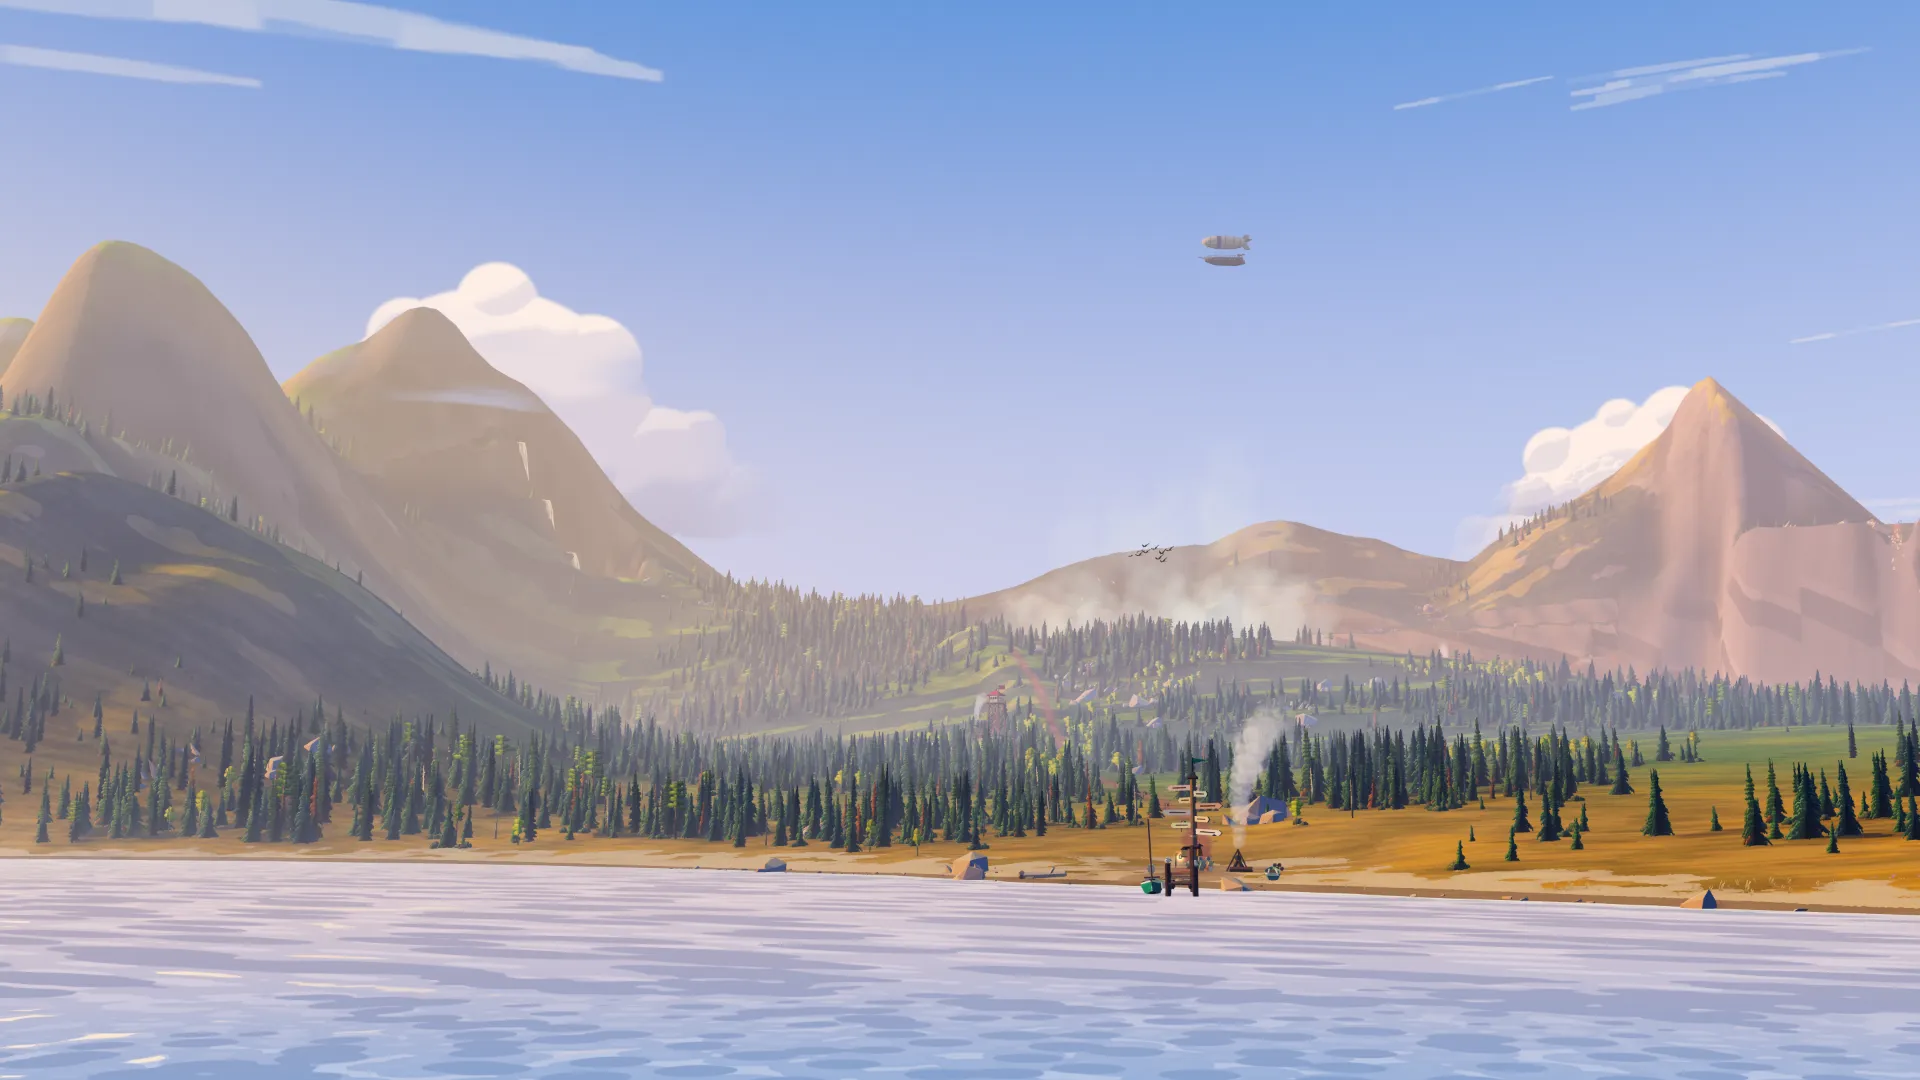
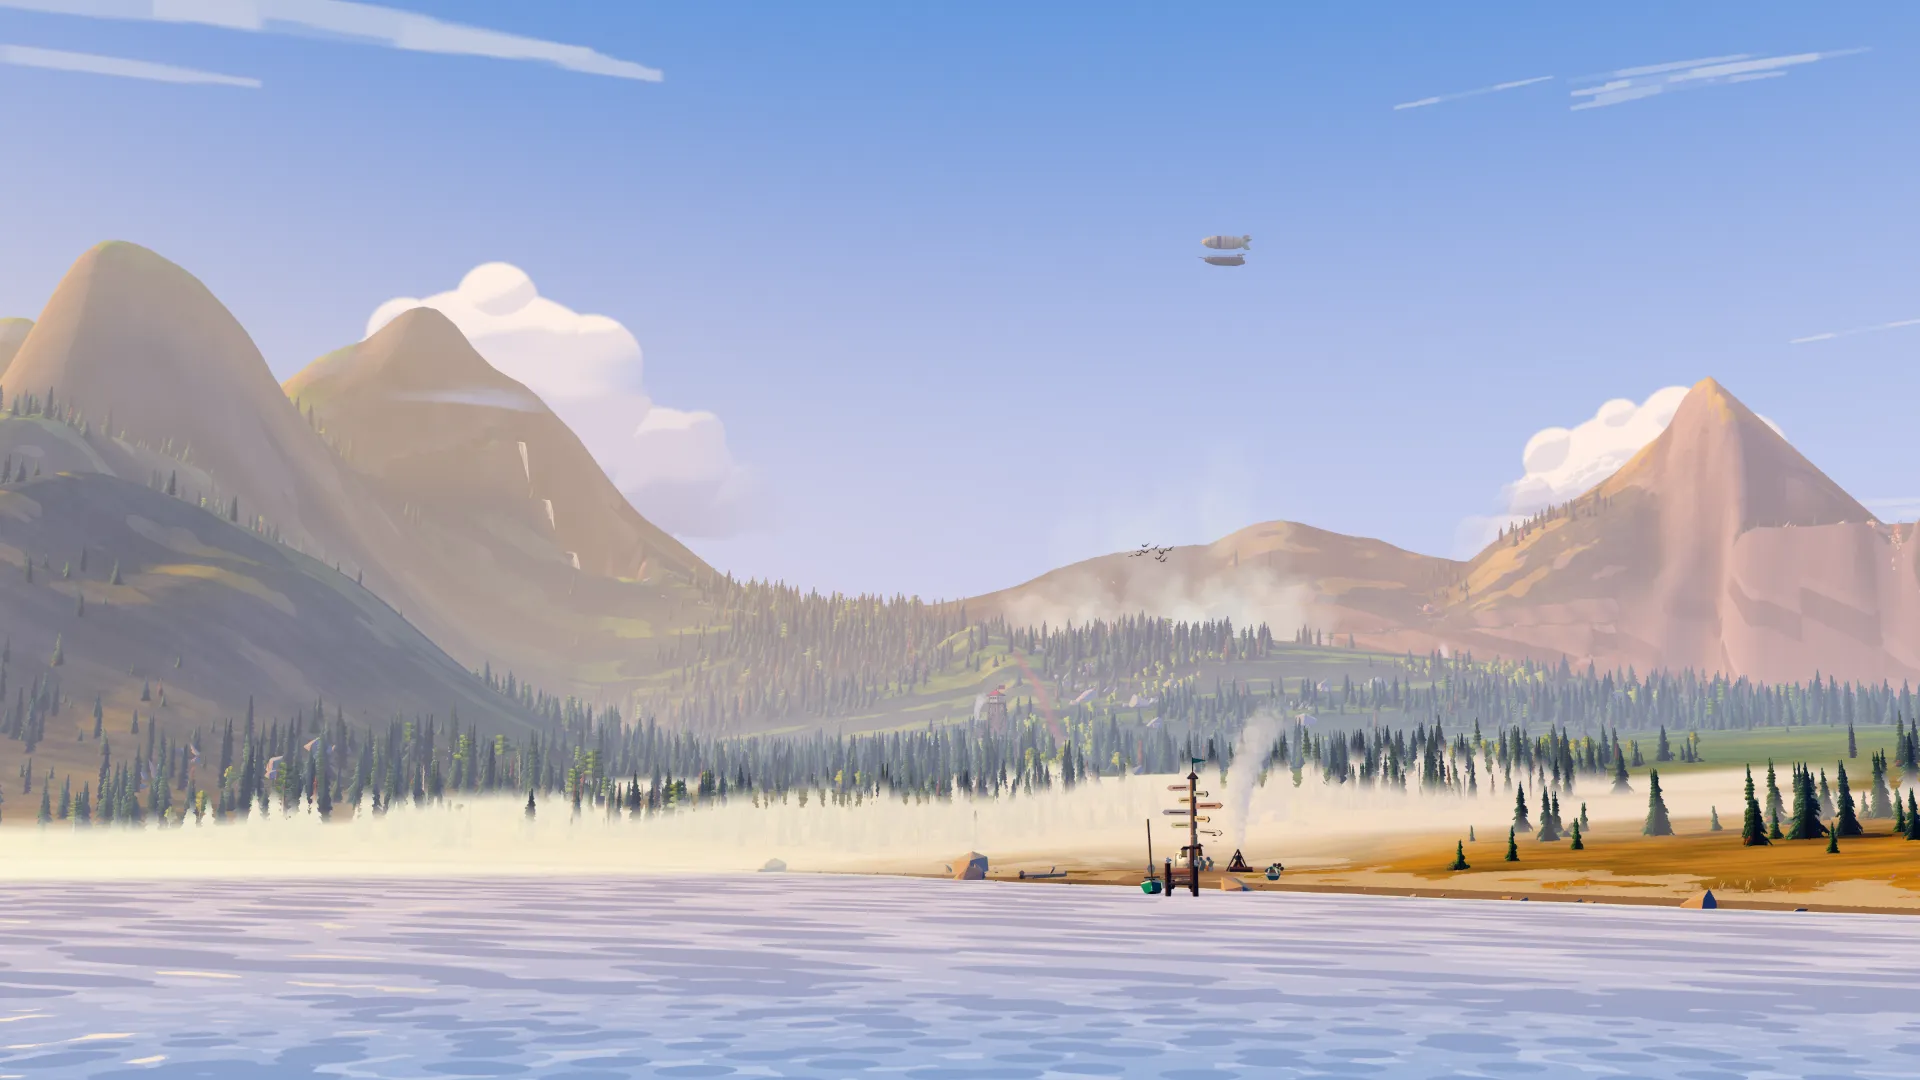
The morning posters are rendered again with the haze. The 7 morning twins are drawn at 07:30 by the poster script (v6-posters.mjs --tod=morning, as at 196b610): 718 KB for the 7 where they were 845 KB, since the mist's smooth banks pack smaller. The Mirror Lake's file is at webp quality 0.74, which 
The morning's poster line is measured again on the opening (the live 3D at 1280 x 720 on the real GPU, each frame's mean distance to the day's frame and the morning's): 0.54 at steps of 0.02 twice and of 0.01, where it was 0.47, because the hazy morning lies further from the day (the opening 28.6 levels from it; the Landing 29.6 where it was 14.9). POSTER_FROM.morning is now 0.54, so the day posters take over at 09:28:24 where they did at 09:31:13. The dawn's line reads 0.36 again and stays, and the dusk's reads 0.34 as before. clock.ts's note gives each place's reading. night-posters.test.mjs takes the new minute (the morning posters to 09:28) and checks second by second round it from 09:27.

In light.ts each morning row's comment now ends with its measurements as the page shows them, with the bottom shade at half in the morning (the third round's numbers were read at the full shade), and how far the view sits from its day at 420 px wide against the tuned morning before the haze: the opening 14.7 dE where it was 10.0, the Landing 17.4 where it was 10.0, Base Camp 15.6 where it was 8.6, the Falls 14.7 where it was 9.7, the Gorge 21.4 where it was 20.8, the Mirror Lake 26.1 where it was 22.9, the forest 17.1 where it was 13.6. The 7 views at 07:30 and 15:00 drawn on the real GPU are pixel for pixel the haze's third round (one pixel one level off at the Gorge), so the live map is as it was.
[…]

Changed region(s): [[0.0, 0.6417, 1.0, 0.825]]

diff --git a/src/lib/world-v6/light.ts b/src/lib/world-v6/light.ts
@@ -1021,6 +1021,16 @@ export const MORNING_BASE = {
  * top that rises and falls; a rose lilac haze at Base Camp for first light
  * on the peaks; the lake's band thinning and thickening along the water; the
  * Glowing Forest's first mist, at the far trunks' feet.
+ *
+ * The third round's numbers in the rows were read at the page's full bottom
+ * shade. Since the same day the morning halves it (WorldV6.tsx
+ * MORNING_SHADE), so a bank low in the frame keeps more of its light; each
+ * row's last lines give it as the page shows it (renders of the page with its
+ * interface, 1691 x 1278, 07:30 against 15:00, the real GPU, on the code the
+ * morning posters were rendered from), with how far the view sits from its
+ * day at the size the owner saw the sheet on a phone (mean CIELAB dE76 at 420
+ * px wide, the top bar and the dock left out), against the tuned morning
+ * before the haze, which he found too close to the day.
  */
 export const MORNING_LOOK = {
   // Haze pass: the lobe 0.3 -> 0.6, the haze and the mist warmer toward the sun.
@@ -1056,6 +1066,10 @@ export const MORNING_ROWS: Partial<Record<LightWaypointKey, MorningRow>> = {
   // reaches 100 over the water), so the bank lies in drifts along the shore;
   // the side turned from the sun cools only 0.15 of the way to the haze, so
   // the whole bank reads as lit cream.
+  // At the half shade: the bank on the shore 184 luma (sat 0.12; 64 by day),
+  // its brightest fifth 203, its top a 66 to 101 luma step inside 40 px; the
+  // tree tops above it 129 and the forest band 144 at sat 0.03 (95 and 120 by
+  // day). From the day dE 14.7 (10.0 before the haze).
   "opening-gold": {
     dial: 1,
     look: {
@@ -1081,6 +1095,10 @@ export const MORNING_ROWS: Partial<Record<LightWaypointKey, MorningRow>> = {
   // luma step where it was 26 to 52. The haze a step bluer and stronger
   // (0xc6d0ee), so the air that is left reads as blue distance (the far
   // forest hue 232, it was 261).
+  // At the half shade: the bank's top 192 luma (68 by day), a 42 to 77 luma
+  // step under the tree tops (146); the far forest 157 at sat 0.05 (147 at
+  // 0.29 by day); the peak 189 at hue 15, the meadow's gold kept (sat 0.51).
+  // From the day dE 17.4 (10.0 before the haze).
   "afternoon-gold": {
     dial: 1,
     light: { haze: 0xc6d0ee },
@@ -1108,6 +1126,10 @@ export const MORNING_ROWS: Partial<Record<LightWaypointKey, MorningRow>> = {
   // cools only 0.3 of the way to it). A rosier one (0xe2cad6, about a third
   // of the Gorge's rose) lit the peaks a step pinker, but the frame came out
   // 7.0 bluer than red over the day's, under the morning stop gate's 8.
+  // At the half shade: the left valley's bank, its brightest fifth 205 luma
+  // (137 by day); the left hill 130, an olive (hue 49, sat 0.17; 0.50 by
+  // day); the peaks as above (they sit over the shade). From the day dE 15.6
+  // (8.6 before the haze).
   afternoon: {
     dial: 1,
     light: { haze: 0xdecce0 },
@@ -1136,6 +1158,10 @@ export const MORNING_ROWS: Partial<Record<LightWaypointKey, MorningRow>> = {
   // (it was 68), so the bank rises out of the page's bottom shade and the
   // valley's trees stand deeper in it (its brightest fifth 189); it still
   // starts at 420, so the near rocks, the red pine and the log stay crisp.
+  // At the half shade: the bank's brightest fifth 206 luma (97 by day), its
+  // lower part 168, its top a step of up to 99 luma in 40 px; the near rocks,
+  // the red pine and the log 95 at sat 0.36. From the day dE 14.7 (9.7
+  // before the haze).
   "late-afternoon": {
     dial: 1,
     light: { hemiGround: 0x5c4c40 },
@@ -1176,6 +1202,10 @@ export const MORNING_ROWS: Partial<Record<LightWaypointKey, MorningRow>> = {
   // warm white (0xfff2e6) whose side turned from the sun stays white (cool
   // 0.1), a touch denser (0.95): the body 151 luma at sat 0.09, the top a
   // 52 to 82 luma step inside 30 px across the gorge (it was 21 to 45).
+  // At the half shade: the body 191 luma at sat 0.10 (72 by day), its top's
+  // brightest fifth 219, the top a 64 to 97 luma step inside 30 px; the range
+  // 122 at hue 2, sat 0.20 (rose); the hut and the trail 61, crisp. From the
+  // day dE 21.4 (20.8 before the haze: this view's day is a coral evening).
   "gorge-sunset": {
     dial: 1,
     light: { sunColor: 0xffcf96, skyHorizon: 0xf6cac4, haze: 0xe8aca4, sunGlow: 0xffc49a, cloudTop: 0xffe2cc, hemiGround: 0x5c4c40 },
@@ -1220,6 +1250,10 @@ export const MORNING_ROWS: Partial<Record<LightWaypointKey, MorningRow>> = {
   // glow toward the sun stronger (sunLobe 0.45), keeping the haze at hue
   // 325. A cream gold (0xffdcb4) was tried and read as sandbanks on the
   // water. The band 198 luma at sat 0.10, its brightest fifth 221.
+  // At the half shade the same (the band sits over the shade): the band 198
+  // (106 by day), its top an 85 to 135 luma step inside 30 px, the far forest
+  // 84 at sat 0.13, the nearer mirror 136. From the day dE 26.1 (22.9 before
+  // the haze).
   sunset: {
     dial: 1,
     light: { skyMid: 0xd0c8ec, skyHorizon: 0xf6c8c0, skyGlow: 0xffd8b0, haze: 0xd1abc1, water: 0x4c6684 },
@@ -1248,6 +1282,10 @@ export const MORNING_ROWS: Partial<Record<LightWaypointKey, MorningRow>> = {
     // the right-hand trees (their brightest fifth 192 and 162 luma, they were
     // 142 and 137), the trunks dark above it, the near floor (23 luma) and
     // the glow path as they were.
+    // At the half shade: the layer's brightest fifth 202 left of the clearing
+    // and 171 behind the right-hand trees (109 and 100 by day), the far
+    // trunks' feet across the frame 125; the near floor 22. From the day dE
+    // 17.1 (13.6 before the haze).
     look: {
       mist: 0.85, mistDepth: 85, mistSoft: 14, mistWave: 25, mistNear: 600, mistFar: 1100, mistColor: 0xf6f0f2,
       mistCool: 0.4, mistGlow: 0.6, air: 0.6, airLift: 80, airFall: 250,

diff --git a/client-tests/_gen/clock.ts b/client-tests/_gen/clock.ts
@@ -247,14 +247,24 @@ export type PosterTod = "day" | "morning" | "night";
  *            0.02, twice, and of 0.01), the Landing 0.32, Base Camp to Video
  *            Ads II 0.26 to 0.28, the Mirror Lake 0.36, the forest 0.34. On
  *            the clock: the morning posters from 05:35:41 (05:34:51 before).
+ *            Measured again with the morning haze (2026-10-22): the opening
+ *            0.36 again (steps of 0.02, twice, and of 0.01), the Landing
+ *            0.32, Base Camp 0.26, the Falls 0.30, the Gorge Trail 0.24, the
+ *            Mirror Lake 0.44, the forest 0.34, so the line stays.
  *   morning  the morning over the day (09:00 to 10:00): the opening 0.48
  *            and 0.46 (two runs; the line sits between); after the tune pass
  *            0.48 twice at steps of 0.02 and 0.47 at steps of 0.01, so the
- *            line stays. The Landing 0.46, Base Camp to Video Ads II 0.44 to
- *            0.48, the Mirror Lake 0.36, the forest 0.38. On the clock: the
- *            day posters from 09:31:13.
+ *            line stayed. The Landing 0.46, Base Camp to Video Ads II 0.44 to
+ *            0.48, the Mirror Lake 0.36, the forest 0.38. With the morning
+ *            haze (2026-10-22) the morning frame lies further from the day
+ *            (the opening's mean distance 28.6 levels; the Landing's was 14.9
+ *            and is 29.6) and the line moved: the opening 0.54 (steps of
+ *            0.02, twice, and of 0.01; it was 0.47), the Landing 0.50, Base
+ *            Camp 0.56, the Falls 0.46, the Gorge Trail 0.64, the Mirror Lake
+ *            0.30, the forest 0.38. On the clock: the day posters from
+ *            09:28:24 (09:31:13 before the haze).
  */
-export const POSTER_FROM = { night: 0.34, dawn: 0.36, morning: 0.47 } as const;
+export const POSTER_FROM = { night: 0.34, dawn: 0.36, morning: 0.54 } as const;
 export type PosterFrom = { readonly night: number; readonly dawn: number; readonly morning: number };
 /** The night's line over the day (POSTER_FROM.night), as the night posters have used it since 2026-10-21. */
 export const POSTER_NIGHT_FROM = POSTER_FROM.night;

diff --git a/src/lib/world-v6/clock.ts b/src/lib/world-v6/clock.ts
@@ -247,14 +247,24 @@ export type PosterTod = "day" | "morning" | "night";
  *            0.02, twice, and of 0.01), the Landing 0.32, Base Camp to Video
  *            Ads II 0.26 to 0.28, the Mirror Lake 0.36, the forest 0.34. On
  *            the clock: the morning posters from 05:35:41 (05:34:51 before).
+ *            Measured again with the morning haze (2026-10-22): the opening
+ *            0.36 again (steps of 0.02, twice, and of 0.01), the Landing
+ *            0.32, Base Camp 0.26, the Falls 0.30, the Gorge Trail 0.24, the
+ *            Mirror Lake 0.44, the forest 0.34, so the line stays.
  *   morning  the morning over the day (09:00 to 10:00): the opening 0.48
  *            and 0.46 (two runs; the line sits between); after the tune pass
  *            0.48 twice at steps of 0.02 and 0.47 at steps of 0.01, so the
- *            line stays. The Landing 0.46, Base Camp to Video Ads II 0.44 to
- *            0.48, the Mirror Lake 0.36, the forest 0.38. On the clock: the
- *            day posters from 09:31:13.
+ *            line stayed. The Landing 0.46, Base Camp to Video Ads II 0.44 to
+ *            0.48, the Mirror Lake 0.36, the forest 0.38. With the morning
+ *            haze (2026-10-22) the morning frame lies further from the day
+ *            (the opening's mean distance 28.6 levels; the Landing's was 14.9
+ *            and is 29.6) and the line moved: the opening 0.54 (steps of
+ *            0.02, twice, and of 0.01; it was 0.47), the Landing 0.50, Base
+ *            Camp 0.56, the Falls 0.46, the Gorge Trail 0.64, the Mirror Lake
+ *            0.30, the forest 0.38. On the clock: the day posters from
+ *            09:28:24 (09:31:13 before the haze).
  */
-export const POSTER_FROM = { night: 0.34, dawn: 0.36, morning: 0.47 } as const;
+export const POSTER_FROM = { night: 0.34, dawn: 0.36, morning: 0.54 } as const;
 export type PosterFrom = { readonly night: number; readonly dawn: number; readonly morning: number };
 /** The night's line over the day (POSTER_FROM.night), as the night posters have used it since 2026-10-21. */
 export const POSTER_NIGHT_FROM = POSTER_FROM.night;

diff --git a/src/components/world-v6/world.module.css b/src/components/world-v6/world.module.css
@@ -1688,7 +1688,7 @@
    poster's, made the same way from public/world-v6/posters/k0-morning.webp
    (world-tests/v6-posters.mjs --tod=morning prints it). */
 :global(html[data-world-tod="morning"]) .poster::before {
[2 lines of base64/hex data omitted]
 }
 
 /* The landing poster, the opening's, from the first paint: drawn by the
